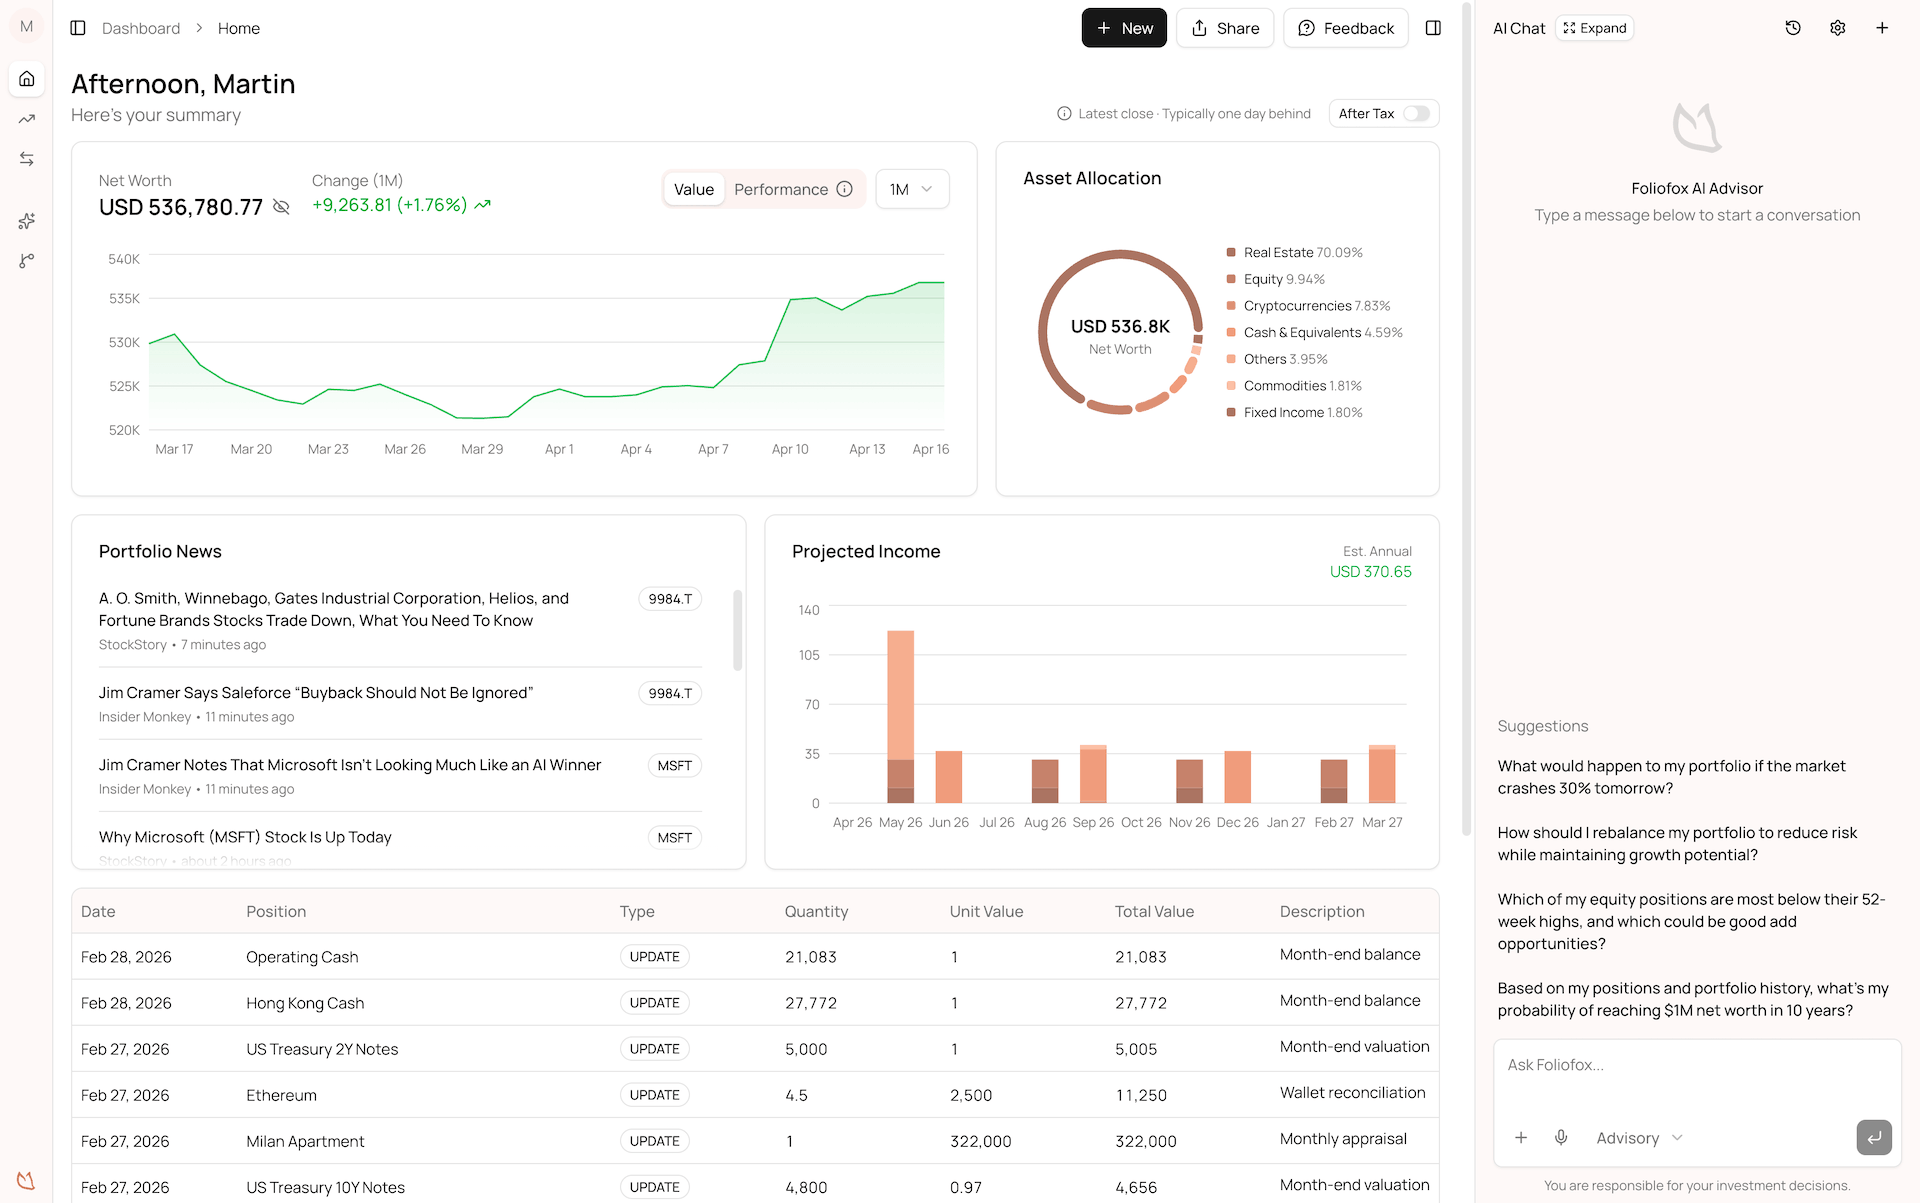
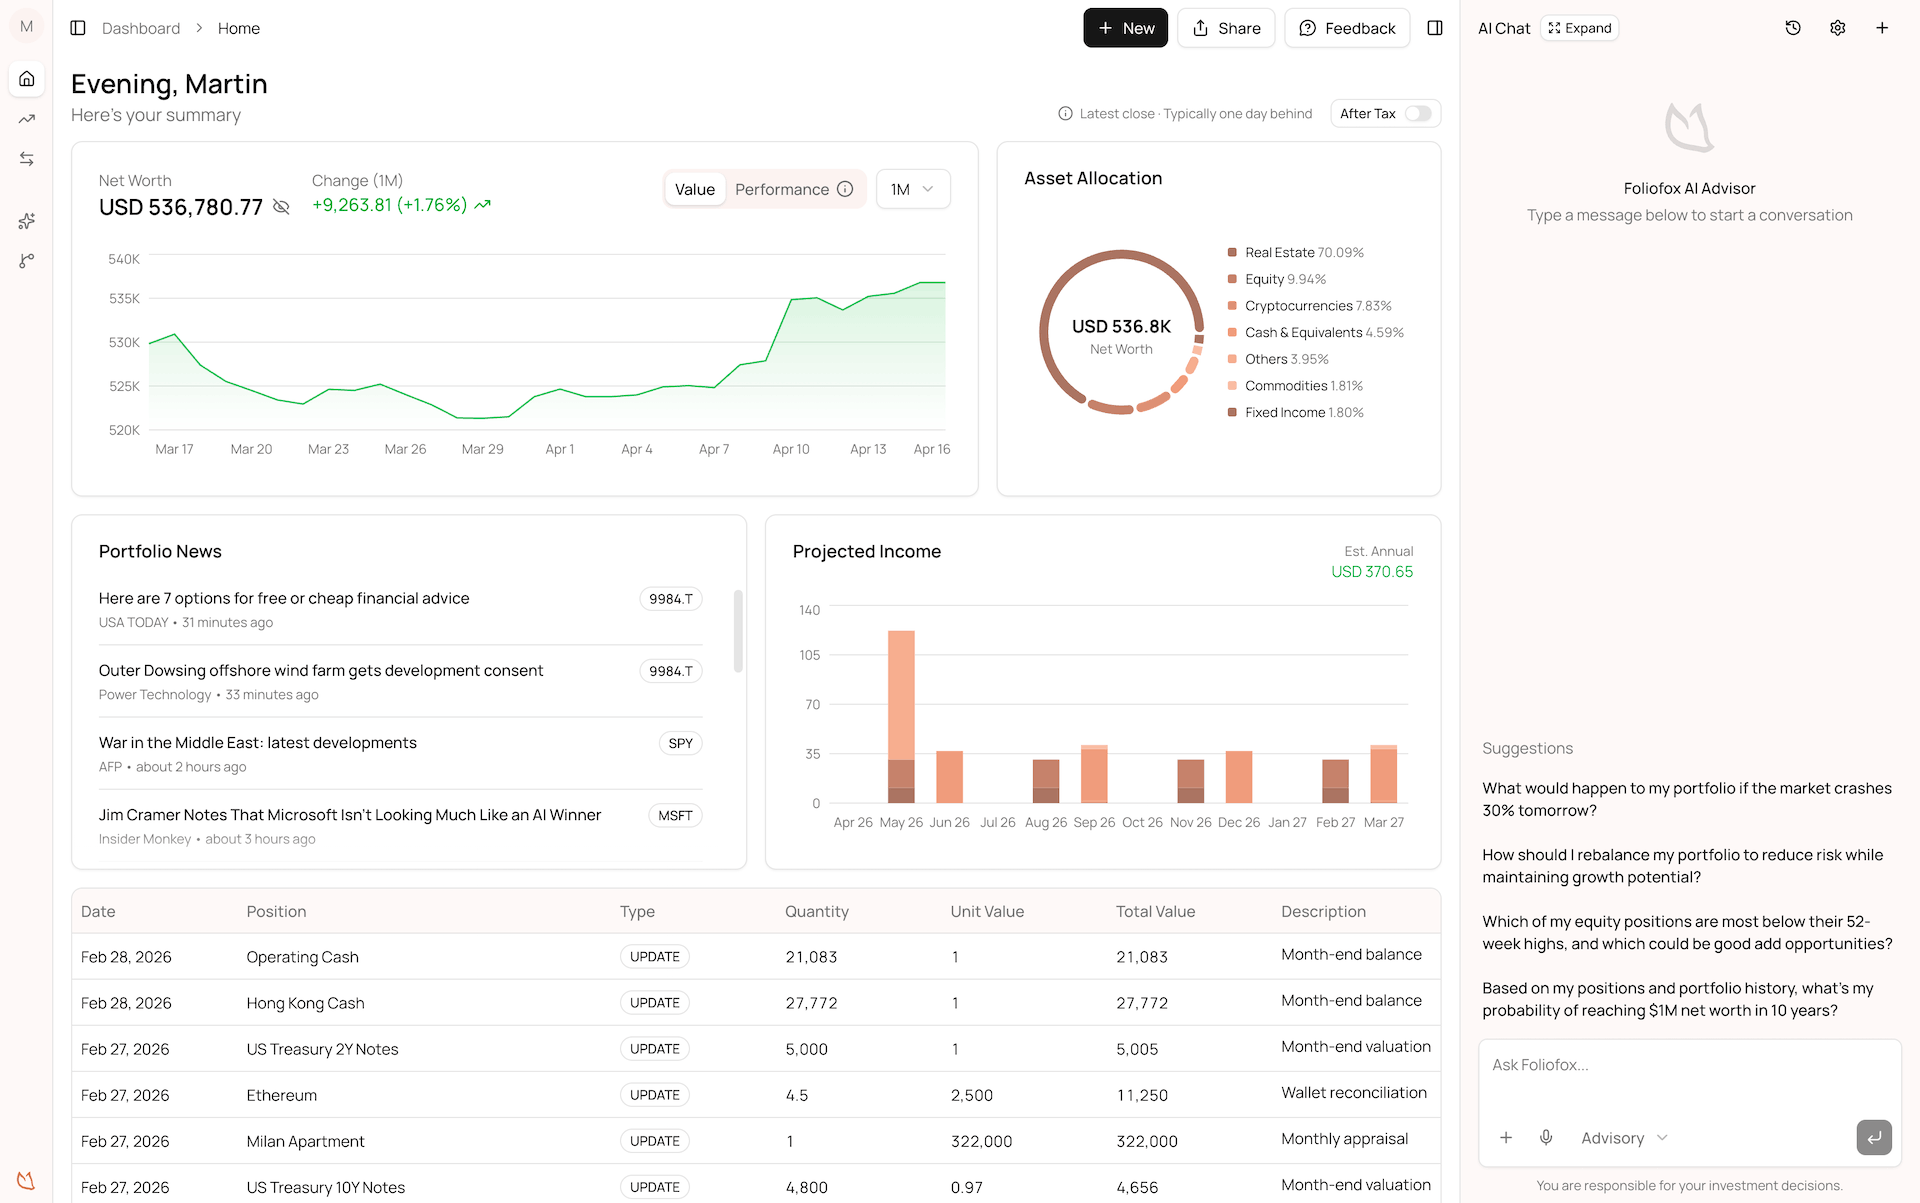
better hero images

diff --git a/types/database.types.ts b/types/database.types.ts
@@ -7,6 +7,11 @@ export type Json =
   | Json[]
 
 export type Database = {
+  // Allows to automatically instantiate createClient with right options
+  // instead of createClient<Database, { PostgrestVersion: 'XX' }>(URL, KEY)
+  __InternalSupabase: {
+    PostgrestVersion: "14.1"
+  }
   graphql_public: {
     Tables: {
       [_ in never]: never
@@ -1074,4 +1079,3 @@ export const Constants = {
     },
   },
 } as const
-
